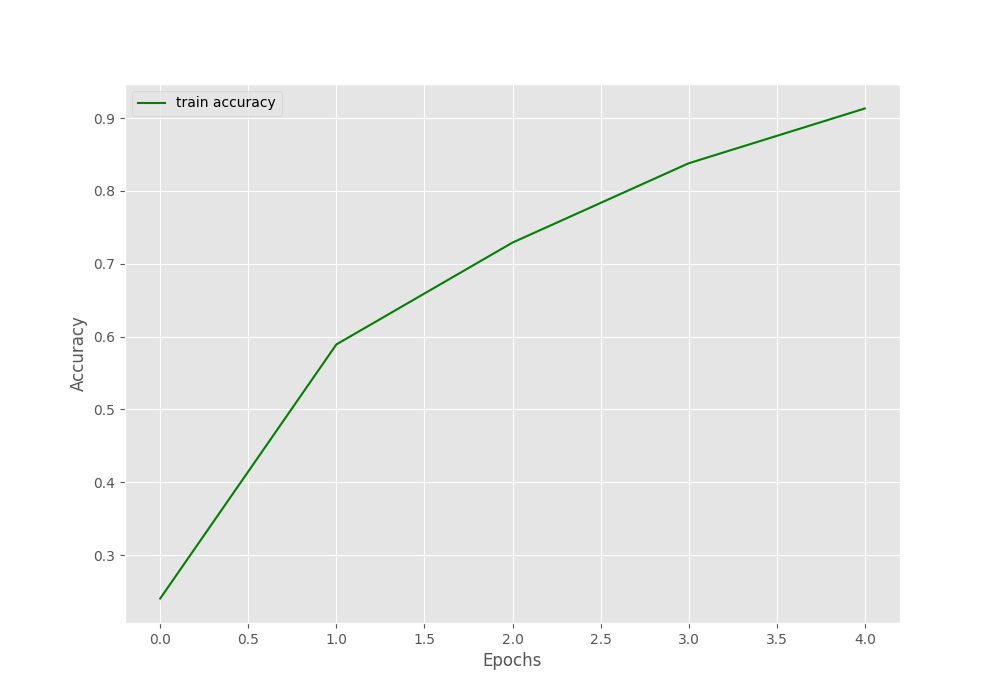
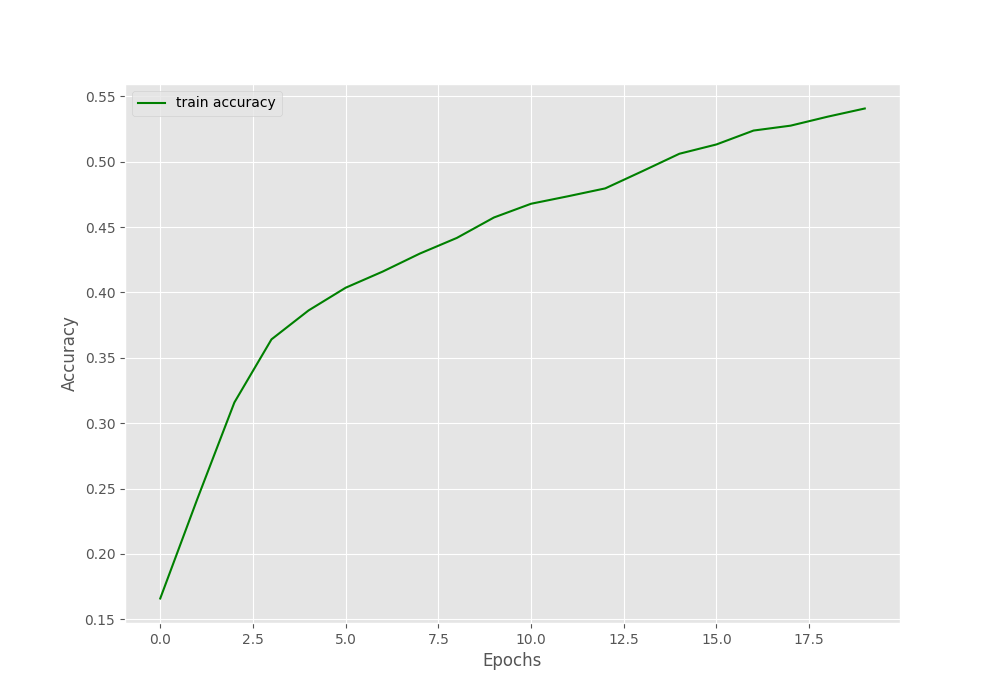
Added custom nets

diff --git a/p1_my_serialparalel.py b/p1_my_serialparalel.py
@@ -1,5 +1,19 @@
 # -*- coding: utf-8 -*-
 """
+Created on Wed Oct 19 15:52:07 2022
+
+@author: user
+"""
+
+# -*- coding: utf-8 -*-
+"""
+Created on Wed Oct 19 15:20:18 2022
+
+@author: user
+"""
+
+# -*- coding: utf-8 -*-
+"""
 Created on Wed Oct 12 20:33:12 2022
 
 @author: user
@@ -20,6 +34,57 @@ from scipy.io import loadmat
 from sklearn.model_selection import train_test_split
 import random
 from utils import CnnNet
+#img size 32
+
+class CustomCNN3(torch.nn.Module):
+    def __init__(self):
+        super(CustomCNN3, self).__init__()
+        self.conv1a = nn.Sequential(
+            nn.Conv2d(3, 5, kernel_size=5, padding=2),#32x32
+            nn.ReLU(),
+            nn.BatchNorm2d(5),
+            nn.MaxPool2d(kernel_size=2, stride=2),#16x16
+        )
+        self.conv1b = nn.Sequential(
+            nn.Conv2d(3, 5, kernel_size=3, padding=1),#32x32
+            nn.ReLU(),
+            nn.BatchNorm2d(5),
+            nn.MaxPool2d(kernel_size=2, stride=2),#16x16
+        )
+        self.conv2 = nn.Sequential(
+            nn.Conv2d(10, 20, kernel_size=3, padding=1),#16x16
+            nn.ReLU(),
+            nn.BatchNorm2d(20),
+            nn.MaxPool2d(kernel_size=2, stride=2),#8x8
+        )
+        self.conv3 = nn.Sequential(
+            nn.Conv2d(20, 20, kernel_size=3, padding = 1),#8x8
+            nn.ReLU(),
+            nn.BatchNorm2d(20),
+            nn.MaxPool2d(kernel_size=2, stride=2),#4x4
+        )
+
+        self.fc_layers = nn.Sequential(
+            nn.Dropout(0.1),
+            nn.Linear(16*20, 32),
+            nn.ReLU(),
+            nn.Dropout(0.1),
+            nn.Linear(32, 10),
+            nn.Softmax()
+        )
+
+    def forward(self, x):
+        
+        out_a = self.conv1a(x)
+        out_b = self.conv1b(x)
+        #print(out_a.size())
+        out = torch.cat((out_a, out_b), axis=1)
+        out = self.conv2(out)
+        out = self.conv3(out)
+        
+        out = out.view(x.shape[0], -1)
+        out = self.fc_layers(out)
+        return out
 
 print(f"Is GPU available? {torch.cuda.is_available()}")
 print(f"Number of available devices: {torch.cuda.device_count()}")
@@ -34,7 +99,7 @@ params = {
     'nepochs' : 20,# Number of training epochs.
     'lr' : 0.0002,# Learning rate for optimizers
    'freeze_first_n_layers' : 2,
-   'save_path':'resnet',
+   'save_path':'my_serialparallel_net',
 }
 
 root_train = 'train'
@@ -97,24 +162,14 @@ print("Pocet vzoriek po odstranovani: " + str(len(test_dataset.samples)))
 trainloader = DataLoader(dataset=train_dataset, batch_size=params['bsize'], shuffle=True)
 testloader = DataLoader(dataset=test_dataset, batch_size=params['bsize'], shuffle=False)
 
-model = models.resnet18(pretrained=True)
+model = CustomCNN3()
 criterion = torch.nn.CrossEntropyLoss()
 
-count = 0
-freeze_first_n_layers = params['freeze_first_n_layers']
-# freeze backbone layers
-for param in model.children(): 
-    if count < freeze_first_n_layers and len(list(param.parameters())) > 0: # freezing first 3 layers
-        print(param)
-        param.requires_grad_(False)
-        count +=1      
+   
 
 optimizer = torch.optim.Adam(model.parameters(), lr=params['lr'])
 
 from torch.utils.tensorboard import SummaryWriter
-
-model.fc.out_features = 10 #zmena poctu vystupnych parametrov
-#model.classifier[6].out_features = 10 
 
 my_net = CnnNet(model, params, trainloader, testloader, device)
 my_net.train(criterion, optimizer)

diff --git a/p1_cifar_my_serial.py b/p1_cifar_my_serial.py
@@ -1,5 +1,12 @@
 # -*- coding: utf-8 -*-
 """
+Created on Wed Oct 19 15:20:18 2022
+
+@author: user
+"""
+
+# -*- coding: utf-8 -*-
+"""
 Created on Wed Oct 12 20:33:12 2022
 
 @author: user
@@ -20,6 +27,47 @@ from scipy.io import loadmat
 from sklearn.model_selection import train_test_split
 import random
 from utils import CnnNet
+#img size 32
+
+class CustomCNN3(torch.nn.Module):
+    def __init__(self):
+        super(CustomCNN3, self).__init__()
+        self.conv1 = nn.Sequential(
+            nn.Conv2d(3, 10, kernel_size=3, padding=1),#32x32
+            nn.ReLU(),
+            nn.BatchNorm2d(10),
+            nn.MaxPool2d(kernel_size=2, stride=2),#16x16
+        )
+        self.conv2 = nn.Sequential(
+            nn.Conv2d(10, 20, kernel_size=3, padding=1),#16x16
+            nn.ReLU(),
+            nn.BatchNorm2d(20),
+            nn.MaxPool2d(kernel_size=2, stride=2),#8x8
+        )
+        self.conv3 = nn.Sequential(
+            nn.Conv2d(20, 20, kernel_size=3, padding = 1),#8x8
+            nn.ReLU(),
+            nn.BatchNorm2d(20),
+            nn.MaxPool2d(kernel_size=2, stride=2),#4x4
+        )
+
+        self.fc_layers = nn.Sequential(
+            nn.Dropout(0.1),
+            nn.Linear(16*20, 32),
+            nn.ReLU(),
+            nn.Dropout(0.1),
+            nn.Linear(32, 10),
+            nn.Softmax()
+        )
+
+    def forward(self, x):
+        out = self.conv1(x)
+        out = self.conv2(out)
+        out = self.conv3(out)
+        
+        out = out.view(x.shape[0], -1)
+        out = self.fc_layers(out)
+        return out
 
 print(f"Is GPU available? {torch.cuda.is_available()}")
 print(f"Number of available devices: {torch.cuda.device_count()}")
@@ -34,7 +82,7 @@ params = {
     'nepochs' : 20,# Number of training epochs.
     'lr' : 0.0002,# Learning rate for optimizers
    'freeze_first_n_layers' : 2,
-   'save_path':'resnet',
+   'save_path':'my_serial_net',
 }
 
 root_train = 'train'
@@ -97,24 +145,14 @@ print("Pocet vzoriek po odstranovani: " + str(len(test_dataset.samples)))
 trainloader = DataLoader(dataset=train_dataset, batch_size=params['bsize'], shuffle=True)
 testloader = DataLoader(dataset=test_dataset, batch_size=params['bsize'], shuffle=False)
 
-model = models.resnet18(pretrained=True)
+model = CustomCNN3()
 criterion = torch.nn.CrossEntropyLoss()
 
-count = 0
-freeze_first_n_layers = params['freeze_first_n_layers']
-# freeze backbone layers
-for param in model.children(): 
-    if count < freeze_first_n_layers and len(list(param.parameters())) > 0: # freezing first 3 layers
-        print(param)
-        param.requires_grad_(False)
-        count +=1      
+   
 
 optimizer = torch.optim.Adam(model.parameters(), lr=params['lr'])
 
 from torch.utils.tensorboard import SummaryWriter
-
-model.fc.out_features = 10 #zmena poctu vystupnych parametrov
-#model.classifier[6].out_features = 10 
 
 my_net = CnnNet(model, params, trainloader, testloader, device)
 my_net.train(criterion, optimizer)
